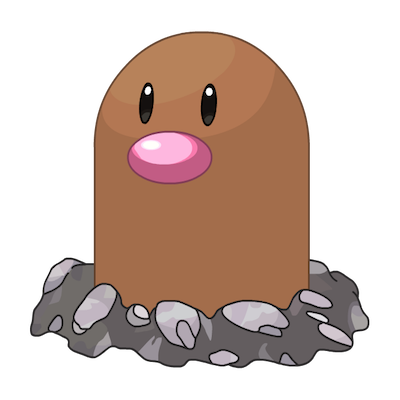
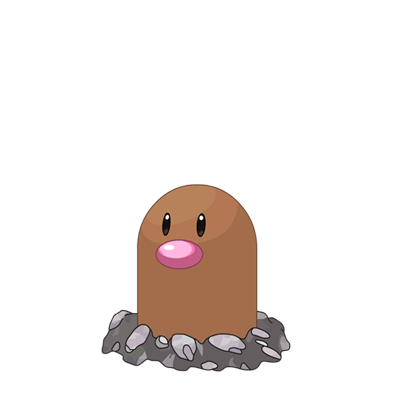
fixed white-ness of Cyndaquill; resized some Pokemon in da images; made forest BG come up

diff --git a/src/model/MapModel/Ground.java b/src/model/MapModel/Ground.java
@@ -25,7 +25,7 @@ public enum Ground implements Tile {
 			TerrainType.CAVE), CAVE_4(TerrainType.CAVE), CAVE_5(TerrainType.CAVE), WEIRD_1(
 			TerrainType.MYSTERY), BINARY_1(TerrainType.MYSTERY), BINARY_2(TerrainType.MYSTERY),
 	BINARY_3(TerrainType.MYSTERY), T5(TerrainType.CAVE), 
-	GRASS_1(TerrainType.GRASS), GRASS_2(TerrainType.GRASS), GRASS_3(TerrainType.GRASS), GRASS_4(TerrainType.GRASS), GRASS_5(
+	FOREST_1(TerrainType.FOREST), GRASS_2(TerrainType.GRASS), GRASS_3(TerrainType.GRASS), GRASS_4(TerrainType.GRASS), GRASS_5(
 			TerrainType.CAVE), SAND_1(TerrainType.DESERT), SAND_2(TerrainType.DESERT), SAND_3(
 			TerrainType.DESERT), SAND_4(TerrainType.DESERT), SAND_5(TerrainType.DESERT),
 	GRASS_1_2_HOR(TerrainType.GRASS), GRASS_2_1_HOR(TerrainType.GRASS), x3(TerrainType.CAVE),

diff --git a/src/view/CEAMap.java b/src/view/CEAMap.java
@@ -52,7 +52,7 @@ public class CEAMap extends Map {
 		w = CEAMap.WIDTH;
 		h = CEAMap.HEIGHT;
 
-		grassy = Ground.GRASS_1;
+		grassy = Ground.FOREST_1;
 		deserty = Ground.SAND_2;
 		icey = Ground.ICE_1;
 		cavey = Ground.CAVE_1;
